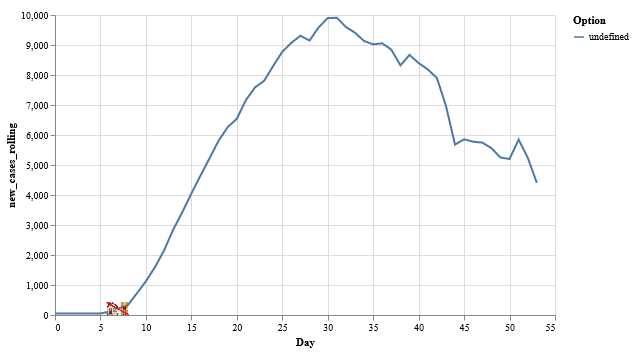
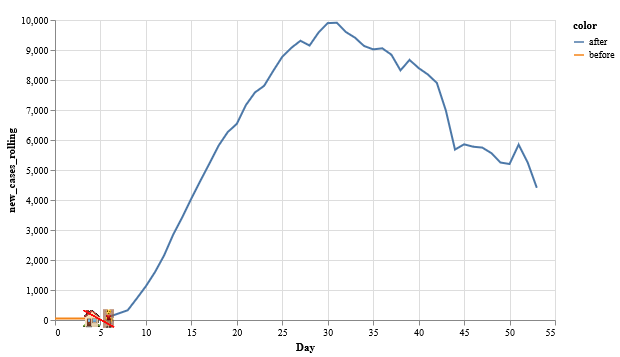
Added more graphs

diff --git a/covidvisstudy.py b/covidvisstudy.py
@@ -131,27 +131,27 @@ st.header("Phase 1")
 # NORMAL INTERVENTIONS
 # ----------------
 
-st.subheader(str(i) + ". State A hadn't implemented a stay-at-home order at any point shown on the graph. Here, the graph's x-axis shows the number of days after the first case is recorded. What do you think is the trajectory of virus cases?")
-#What do you think... (TODO: language)
-
-slider1 = record(st.select_slider, "Trajectory w/ No Stay-At-Home Order (Before)")
-chart_to_show = slider1("Trajectory", [i for i in range(1,7) for _ in range(5)])
-chart = "visualization/visualization" + str(int(chart_to_show)) + ".png"
-st.image(chart)
-
-i += 1
+#st.subheader(str(i) + ". State A hadn't implemented a stay-at-home order at any point shown on the graph. Here, the graph's x-axis shows the number of days after the first case is recorded. What do you think is the trajectory of virus cases?")
+##What do you think... (TODO: language)
+#
+#slider1 = record(st.select_slider, "Trajectory w/ No Stay-At-Home Order (Before)")
+#chart_to_show = slider1("Trajectory", [i for i in range(1,7) for _ in range(5)])
+#chart = "visualization/visualization" + str(int(chart_to_show)) + ".png"
+#st.image(chart)
+#
+#i += 1
 
 # PICK WHERE IT IS 
 # --------------------
-
-st.subheader(str(i) + ". In this situation, State B implemented a lockdown order. Where on the curve do you think the lockdown order was put in place?")
-
-slider2 = record(st.select_slider, "Lockdown Order (Before)")
-chart_to_show_intervention = slider2("Lockdown Order", [i for i in range(1,4) for _ in range(5)])
-chart = "intervention/visualization" + str(int(chart_to_show_intervention) - 1) + ".png"
-st.image(chart)
-
-i += 1
+#
+#st.subheader(str(i) + ". In this situation, State B implemented a lockdown order. Where on the curve do you think the lockdown order was put in place?")
+#
+#slider2 = record(st.select_slider, "Lockdown Order (Before)")
+#chart_to_show_intervention = slider2("Lockdown Order", [i for i in range(1,4) for _ in range(5)])
+#chart = "intervention/visualization" + str(int(chart_to_show_intervention) - 1) + ".png"
+#st.image(chart)
+#
+#i += 1
 
 # LOG SCALE 
 # ----------------------
@@ -199,26 +199,26 @@ st.image("ny_trendlines/actual.png", width=800)
 
 st.header("Phase 3")
 
-st.subheader(str(i) + ". State A hadn't implemented a stay-at-home order at any point shown on the graph. Here, the graph's x-axis shows the number of days after the first case is recorded. What do you think is the trajectory of virus cases?")
-#What do you think... (TODO: language)
-i+=1
-
-slider0 = record(st.select_slider, "Trajectory w/ No Stay-At-Home Order (After)")
-chart_to_show_traj_after = slider0("Trajectory (After)", [i for i in range(1,7) for _ in range(5)])
-chart = "visualization/visualization" + str(int(chart_to_show_traj_after)) + ".png"
-st.image(chart)
+#st.subheader(str(i) + ". State A hadn't implemented a stay-at-home order at any point shown on the graph. Here, the graph's x-axis shows the number of days after the first case is recorded. What do you think is the trajectory of virus cases?")
+##What do you think... (TODO: language)
+#i+=1
+#
+#slider0 = record(st.select_slider, "Trajectory w/ No Stay-At-Home Order (After)")
+#chart_to_show_traj_after = slider0("Trajectory (After)", [i for i in range(1,7) for _ in range(5)])
+#chart = "visualization/visualization" + str(int(chart_to_show_traj_after)) + ".png"
+#st.image(chart)
 
 
 # PICK WHERE IT IS 
 # --------------------
 
-st.subheader(str(i) + ". In this situation, State B implemented a lockdown order. Where on the curve do you think the lockdown order was put in place?")
-
-slider6 = record(st.select_slider, "Lockdown Order (After)")
-chart_to_show_after = slider6("Lockdown Order (After)", [i for i in range(1,5) for _ in range(5)])
-chart = "intervention/visualization" + str(int(chart_to_show_after) - 1) + ".png"
-st.image(chart)
-i+=1
+#st.subheader(str(i) + ". In this situation, State B implemented a lockdown order. Where on the curve do you think the lockdown order was put in place?")
+#
+#slider6 = record(st.select_slider, "Lockdown Order (After)")
+#chart_to_show_after = slider6("Lockdown Order (After)", [i for i in range(1,5) for _ in range(5)])
+#chart = "intervention/visualization" + str(int(chart_to_show_after) - 1) + ".png"
+#st.image(chart)
+#i+=1
 
 # LOG SCALE 
 # ----------------------
